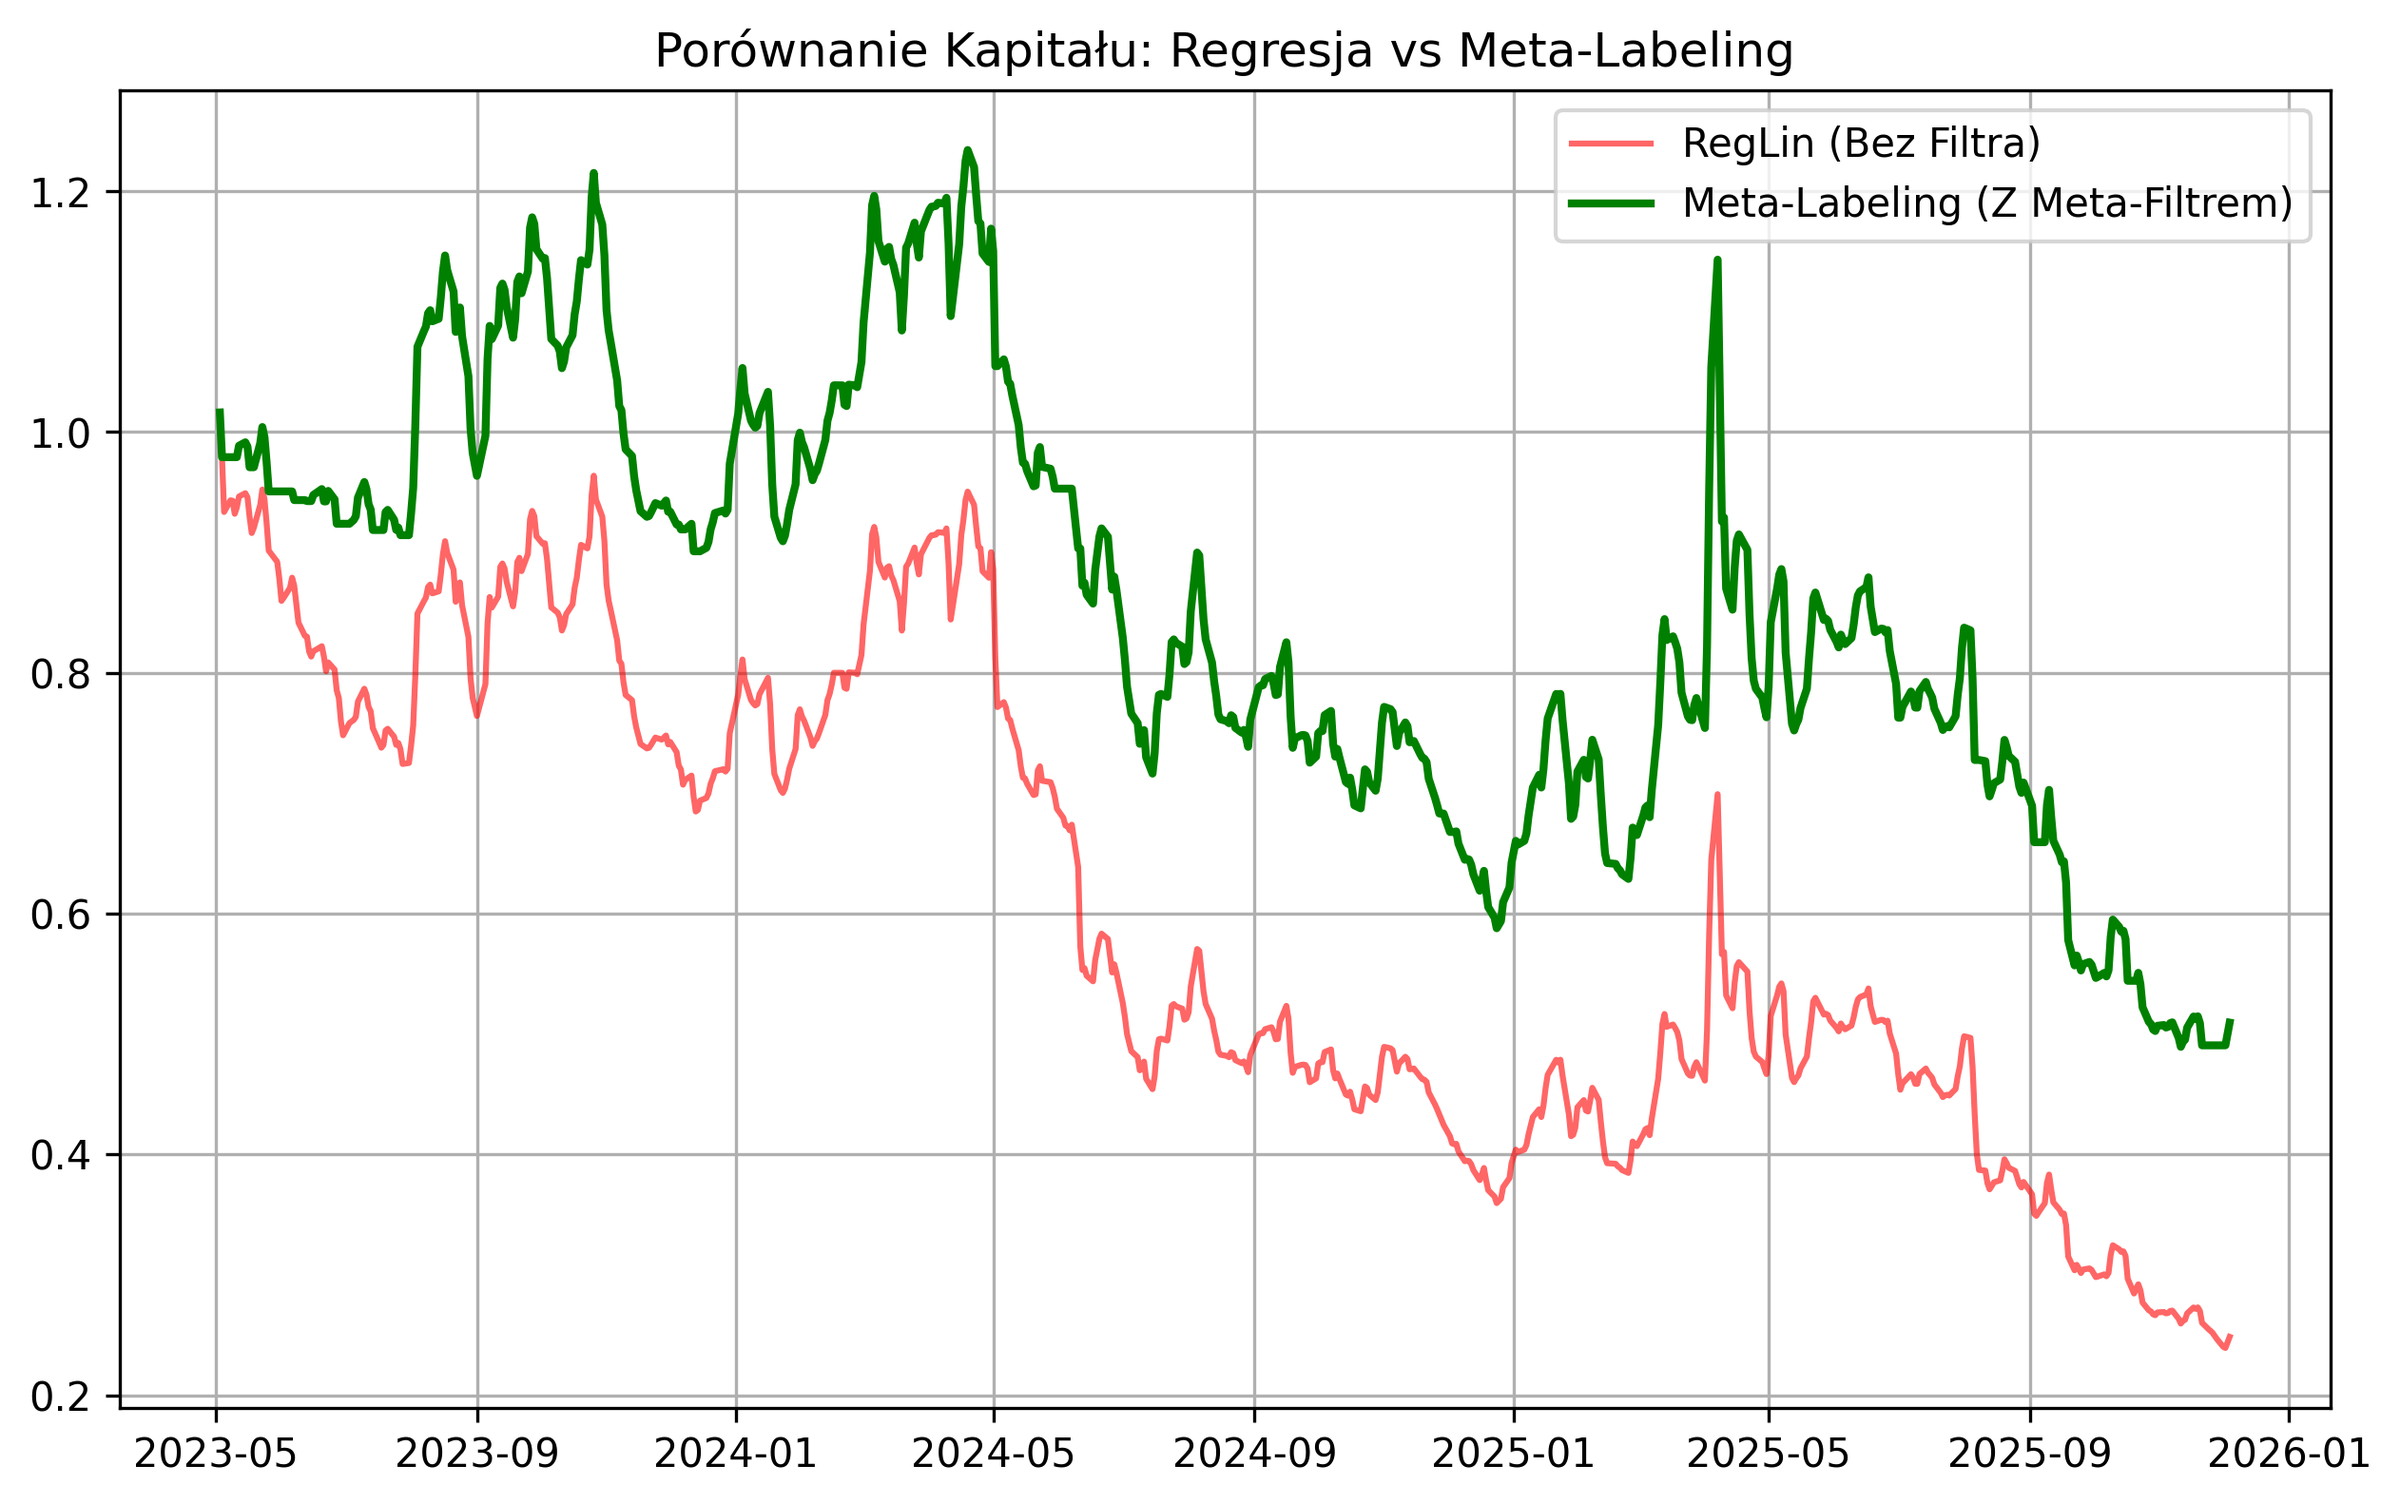
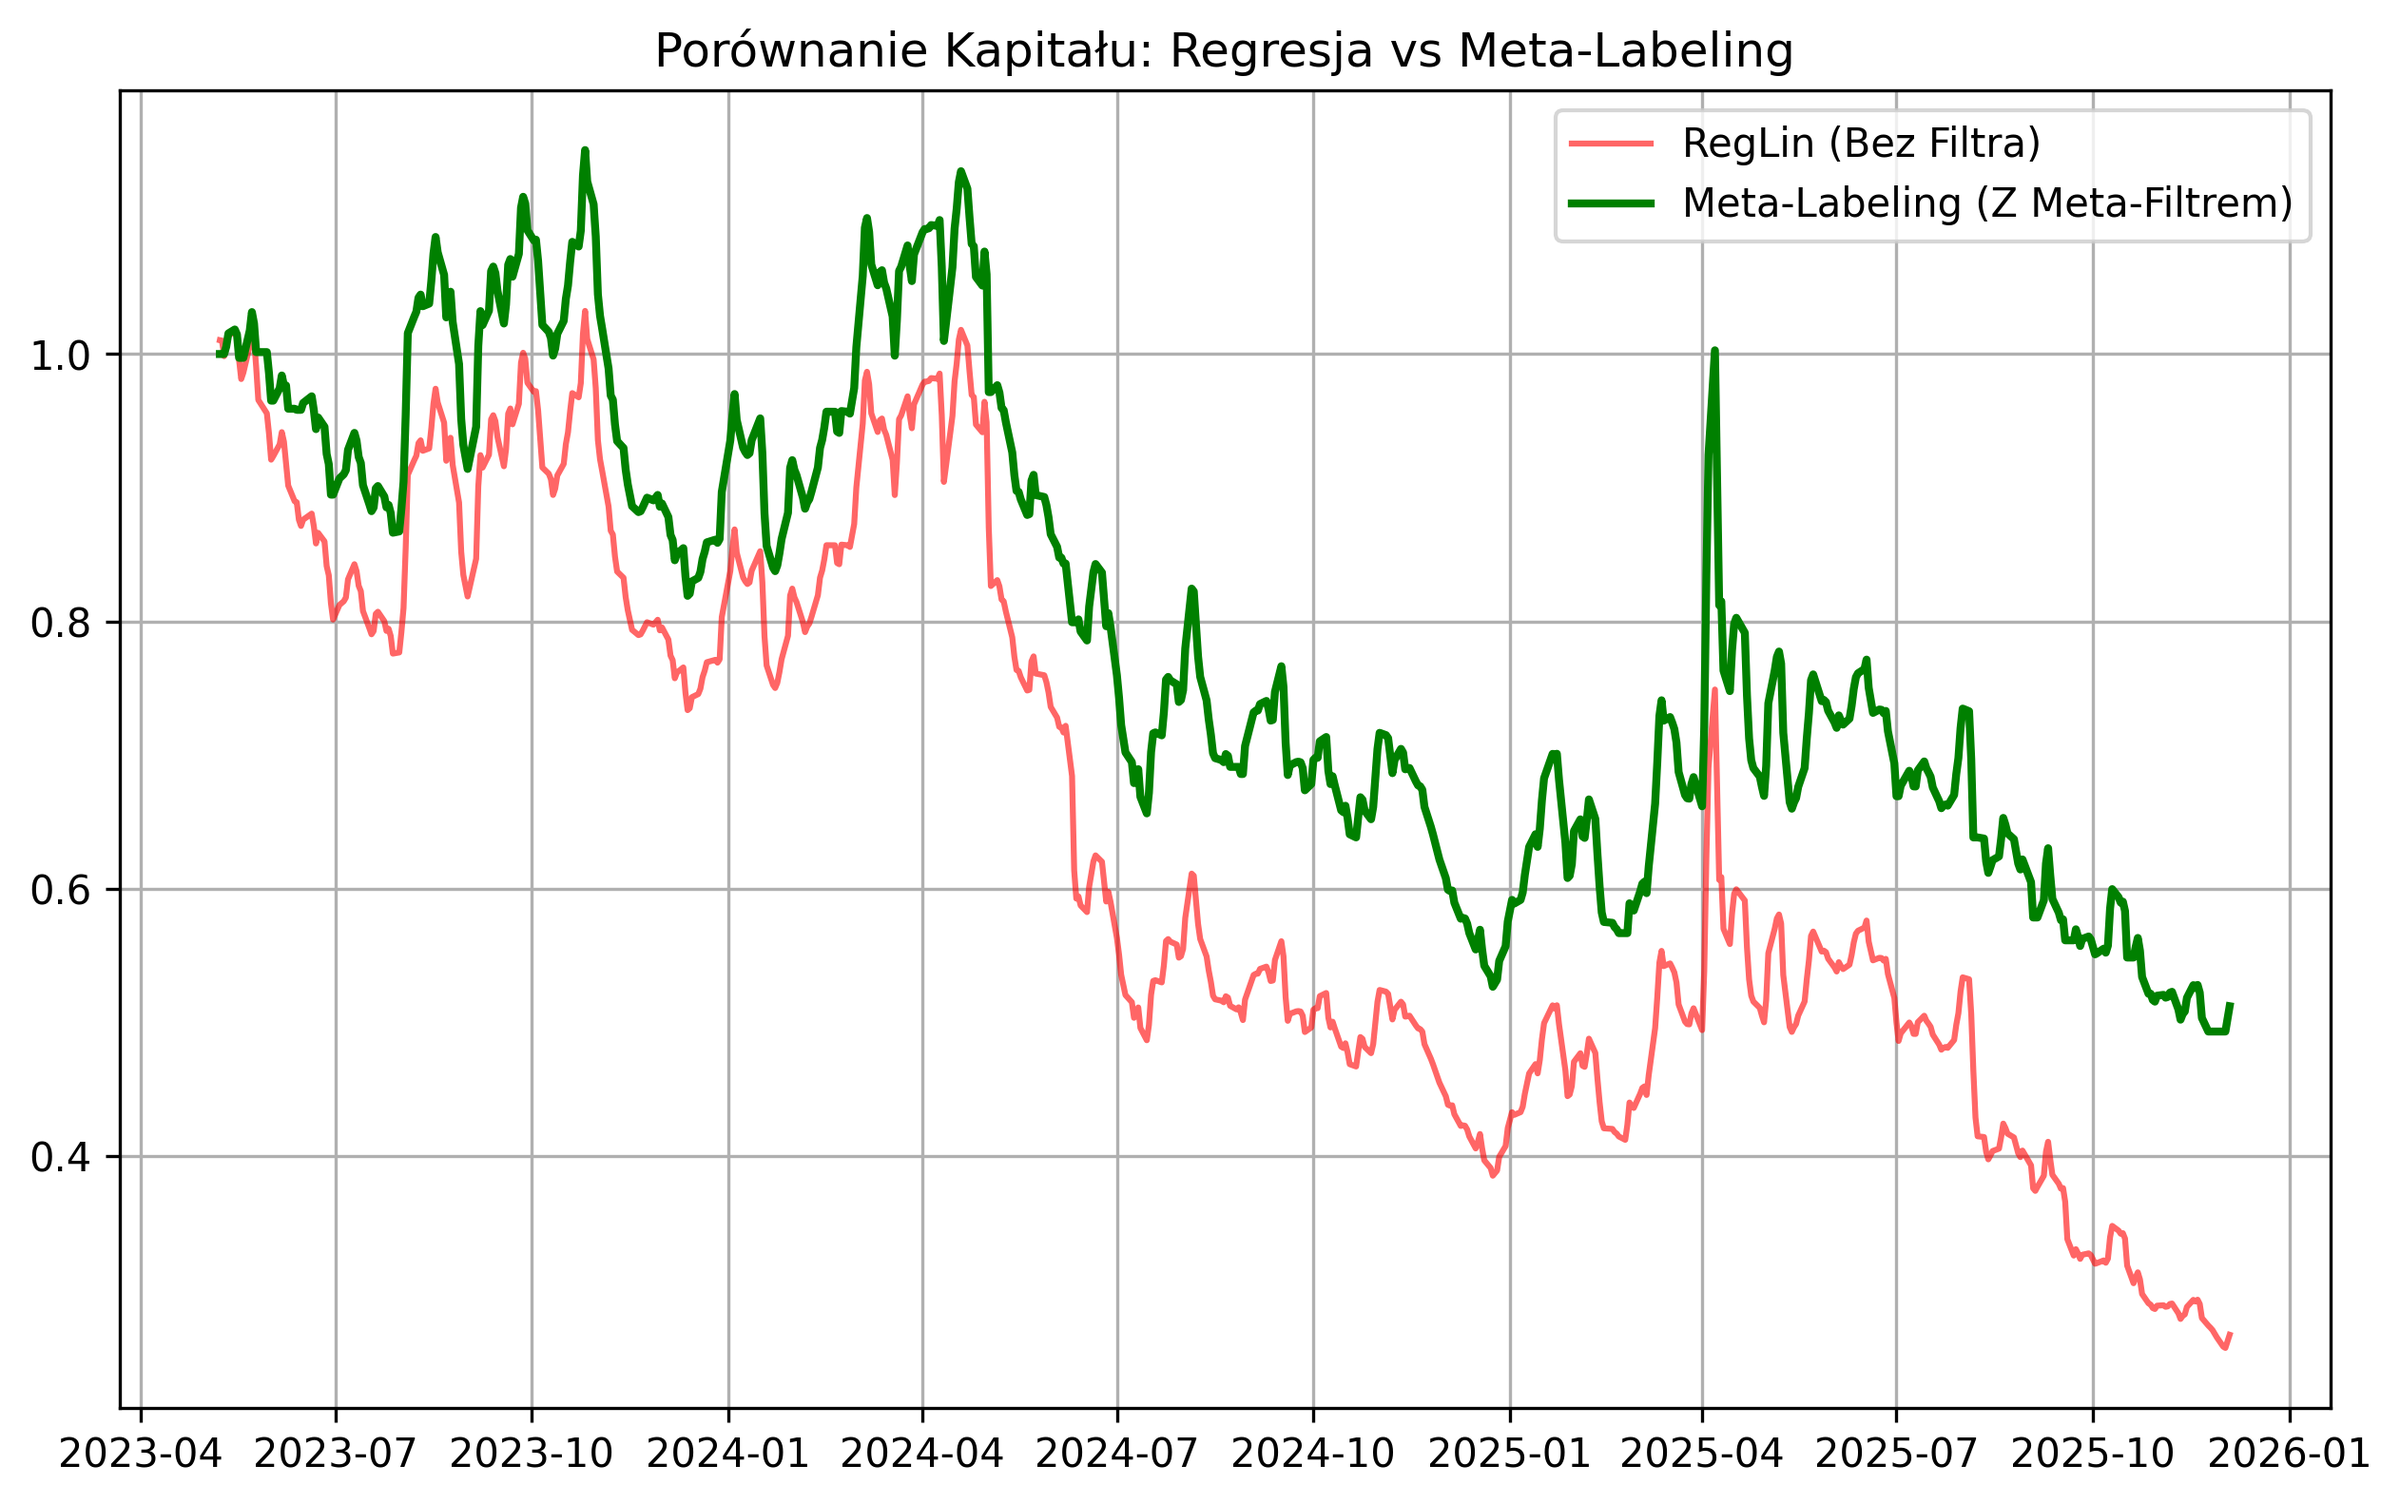
feat: Extend data, refine meta-model logic and evaluation

diff --git a/step5_meta_model.py b/step5_meta_model.py
@@ -4,73 +4,81 @@ from sklearn.ensemble import RandomForestClassifier
 from sklearn.metrics import classification_report, accuracy_score, precision_score
 import matplotlib.pyplot as plt
 
-# 1. Wczytaj dane
+# 1. Wczytaj "plik od kolegów"
 df = pd.read_csv('colleagues_predictions.csv', index_col=0, parse_dates=True)
 
-# 2. Labeling
+# 2. LABELING (Oceniamy pracę kolegów)
+
+# Krok A: Jaki sygnał daje ich model?
+# Jeśli Predicted > Prev_Close -> 1 (KUPUJ/WZROST)
+# Jeśli Predicted < Prev_Close -> -1 (SPRZEDAJ/SPADEK)
 df['Signal'] = np.where(df['Predicted_Close'] > df['Prev_Close'], 1, -1)
+
+# Krok B: Czy mieli rację? (Tworzenie Targetu dla Meta-Modelu)
+# Obliczamy faktyczny kierunek rynku
 df['Actual_Direction'] = np.where(df['Actual_Close'] > df['Prev_Close'], 1, -1)
 
-# Target: 1 jeśli mieli rację, 0 jeśli błąd
+# Meta_Label: 1 jeśli Signal == Actual_Direction, 0 jeśli się pomylili
 df['Meta_Target'] = (df['Signal'] == df['Actual_Direction']).astype(int)
 
-# 3. Feature Engineering dla Meta-Modelu
-# Używamy VIX, który dodaliśmy w kroku 4!
+print("Statystyki modelu kolegów (przed filtrem):")
+print(f"Skuteczność kierunkowa (Accuracy): {df['Meta_Target'].mean():.2%}")
+
+# 3. FEATURE ENGINEERING DLA META-MODELU
+# Na czym Twój model ma się uczyć filtrowania?
+# Używamy cech, które już są w pliku (RSI, ATR, Rolling_Std)
+# Dodajemy: Pewność siebie modelu (jak dużą zmianę przewiduje?)
 df['Model_Confidence'] = abs(df['Predicted_Close'] - df['Prev_Close']) / df['Prev_Close']
 
-# Cechy, które wchodzą do Meta-Modelu
-meta_features = ['RSI', 'ATR', 'VIX', 'Dist_SMA', 'Model_Confidence']
+meta_features = ['RSI', 'ATR', 'Rolling_Std', 'Model_Confidence']
 X_meta = df[meta_features]
 y_meta = df['Meta_Target']
 
-# 4. Trening
+# 4. TRENING TWOJEGO FILTRA
+# Dzielimy te wyniki na pół (uczymy się na pierwszej połowie testu kolegów, testujemy na drugiej)
 split = int(len(df) * 0.5)
 X_m_train, X_m_test = X_meta.iloc[:split], X_meta.iloc[split:]
 y_m_train, y_m_test = y_meta.iloc[:split], y_meta.iloc[split:]
 
 print("\nTrening Meta-Modelu (Random Forest)...")
-# Zmniejszamy min_samples_leaf, żeby model był bardziej agresywny
-meta_model = RandomForestClassifier(n_estimators=200, max_depth=5, min_samples_leaf=5, random_state=42)
+# Random Forest jest świetny jako Meta-Model
+meta_model = RandomForestClassifier(n_estimators=100, max_depth=4, random_state=42)
 meta_model.fit(X_m_train, y_m_train)
 
-# 5. Feature Importance (Co jest ważne?)
-importances = meta_model.feature_importances_
-feat_importances = pd.Series(importances, index=X_m_test.columns)
-print("\n--- CO JEST WAŻNE DLA FILTRA? ---")
-print(feat_importances.sort_values(ascending=False))
+# 5. EWALUACJA
+# Meta-Model mówi: 1 (Przepuść sygnał, jest bezpieczny), 0 (Zablokuj, model kłamie)
+meta_preds = meta_model.predict(X_m_test)
 
-# 6. Predykcja z niższym progiem (Soft Voting)
-probs = meta_model.predict_proba(X_m_test)[:, 1]
-# Domyślnie jest 0.5. Zniżamy do 0.52 (lekki filtr) lub podwyższamy. 
-# Jeśli filtr nic nie puszczał, to znaczy że rzadko był pewien > 0.5.
-threshold = 0.52 
-meta_preds = (probs > threshold).astype(int)
-
-print(f"\n--- WYNIKI (Próg pewności: {threshold}) ---")
-print(f"Ile transakcji przepuścił filtr: {sum(meta_preds)} z {len(meta_preds)}")
+print("\n--- WYNIKI TWOJEGO MODUŁU ---")
 print(classification_report(y_m_test, meta_preds))
 
-# 7. Wykres
+# Sprawdźmy precyzję dla klasy 1 (kiedy mówisz "TAK", czy masz rację?)
+prec = precision_score(y_m_test, meta_preds)
+print(f"Precyzja Twojego filtra: {prec:.2%}")
+if prec > df['Meta_Target'].mean():
+    print("SUKCES! Twój filtr poprawia wyniki modelu bazowego.")
+else:
+    print("UWAGA: Filtr wymaga dostrojenia (więcej danych/lepsze cechy).")
+
+# 6. Symulacja Zysków (Equity Curve)
 test_data = df.iloc[split:].copy()
 test_data['Meta_Filter'] = meta_preds
+
+# Obliczamy zwrot z tradingu (prosty: kupujemy na otwarciu, sprzedajemy na zamknięciu)
+# Uproszczenie: zwrot to (Actual - Prev) / Prev * Sygnał
 test_data['Return'] = (test_data['Actual_Close'] - test_data['Prev_Close']) / test_data['Prev_Close']
+test_data['Strategy_Base'] = test_data['Return'] * test_data['Signal'] # Bierzemy wszystko
+test_data['Strategy_Meta'] = test_data['Strategy_Base'] * test_data['Meta_Filter'] # Bierzemy tylko potwierdzone
 
-# Symulacja
-test_data['Strategy_Base'] = test_data['Return'] * test_data['Signal']
-test_data['Strategy_Meta'] = test_data['Strategy_Base'] * test_data['Meta_Filter']
-
+# Skumulowany zysk
 test_data['Equity_Base'] = (1 + test_data['Strategy_Base']).cumprod()
 test_data['Equity_Meta'] = (1 + test_data['Strategy_Meta']).cumprod()
 
 plt.figure(figsize=(10, 6))
-plt.plot(test_data['Equity_Base'], label='VAM (Base)', color='red', alpha=0.5)
-plt.plot(test_data['Equity_Meta'], label='Kuba (Meta-Filter)', color='green', linewidth=2)
-plt.title('Porównanie Strategii (Z VIX i danymi od 2018)')
+plt.plot(test_data['Equity_Base'], label='RegLin (Bez Filtra)', color='red', alpha=0.6)
+plt.plot(test_data['Equity_Meta'], label='Meta-Labeling (Z Meta-Filtrem)', color='green', linewidth=2)
+plt.title('Porównanie Kapitału: Regresja vs Meta-Labeling')
 plt.legend()
 plt.grid(True)
-<<<<<<< Updated upstream
-plt.show()
-=======
 plt.savefig('meta_model_comparison.png', dpi=300, bbox_inches='tight')
 print("\nWykres zapisany jako 'meta_model_comparison.png'")
->>>>>>> Stashed changes

diff --git a/step4_gen_predictions.py b/step4_gen_predictions.py
@@ -8,13 +8,13 @@ import numpy as np
 
 # 1. Pobieramy WIĘCEJ danych (od 2018) + VIX (Indeks Strachu)
 print("Pobieranie danych (AAPL + VIX)...")
-df = yf.download('AAPL', start='2018-01-01', auto_adjust=False)
+df = yf.download('AAPL', start='2000-01-01', auto_adjust=False)
 # Spłaszczamy MultiIndex
 if isinstance(df.columns, pd.MultiIndex):
     df.columns = df.columns.get_level_values(0)
 
 # Pobieramy VIX (Context)
-vix = yf.download('^VIX', start='2018-01-01', auto_adjust=False)
+vix = yf.download('^VIX', start='2000-01-01', auto_adjust=False)
 if isinstance(vix.columns, pd.MultiIndex):
     vix.columns = vix.columns.get_level_values(0)
 
@@ -35,6 +35,8 @@ vix = data['^VIX']['Close'].copy()
 df['RSI'] = df.ta.rsi(length=14)
 df['SMA_20'] = df.ta.sma(length=20)
 df['ATR'] = df.ta.atr(length=14)
+df['SMA_50'] = df.ta.sma(length=50)
+df['Dist_SMA'] = (df['Close'] - df['SMA_50']) / df['SMA_50']
 
 # Dołączamy VIX jako zewnętrzną cechę (Feature)
 df['VIX'] = vix
